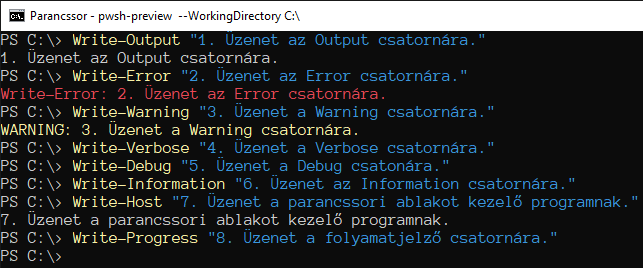
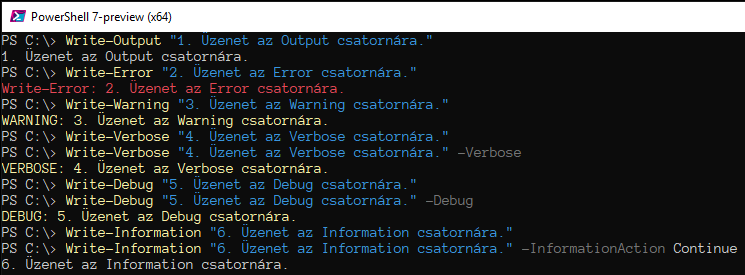
Files

Changed region(s): [[0.0, 0.0, 1.0, 0.9851]]

diff --git a/PowerShell/hu-HU/About_Content.html b/PowerShell/hu-HU/About_Content.html
@@ -19,6 +19,8 @@
   Ugyanezt a feladatot a <kbd>Set-Content</kbd>, illetve <kbd>Add-Content</kbd>
   parancsmagok, sőt a kimenet átirányítására szolgáló <kbd>&gt;</kbd>,
   illetve <kbd>&gt;&gt;</kbd> operátorok is végrehajtják.
+  A fájlok tartalmát felülíró parancsok létre is hozzák az adatállományt,
+  amennyiben az nem létezik.
   <p>
   <table class="wide">
     <tr>
@@ -45,9 +47,14 @@
   és egy állományba is elmenteni az átvett adatokat, így az eredményről a
   képernyőn is láthatunk visszajelzést. A <kbd>Set-Content</kbd> és
   <kbd>Add-Content</kbd> parancsmagok alapértelmezetten visszajelzés nélkül
-  rendelnek tartalmat egy adatállományhoz, de a képernyőn is visszaolvashatóvá
-  teszik azt a <kbd>-PassThru</kbd> kapcsoló hatására.
-  <p>
+  rendelnek tartalmat egy adatállományhoz, ám a képernyőn is visszaolvashatóvá
+  tehetik a fájlba irányított objektumokat a <kbd>-PassThru</kbd> kapcsoló
+  hatására. <strong>De vigyázat!</strong> A képernyőn megjelenő és a fájlba írt
+  sorok különbözhetnek egymástól!
+  <figure>
+    <img src="img/Send objects into file.png"/>
+    <figcaption>Send objects into file</figcaption>
+  </figure>
   A paraméterezési lehetőségeken kívül a fő különbség a fenti eszközök között
   elsősorban az, hogy a <kbd>Set-Content</kbd> és <kbd>Add-Content</kbd>
   parancsmagok a kiírandó objektumokat a <kbd>.ToString()</kbd> metódus
@@ -56,10 +63,12 @@
   megfelelően készíti el a fájl tartalmát. Ez utóbbi eredményt a
   <kbd>Set-Content</kbd> és <kbd>Add-Content</kbd> parancsmagokkal is
   elérhetjük, ha a kiírás előtt az adatokat átküldjük az <kbd>Out-String</kbd>
-  parancsmagon.
-  <p>
-  A fájlok tartalmát felülíró parancsok létre is hozzák az adatállományt,
-  amennyiben az nem létezik.
+  parancsmagon, amely az alapértelmezett formázás szerinti szöveges adatokká
+  alakítja azokat.
+  <figure>
+    <img src="img/Send formatted objects into file.png"/>
+    <figcaption>Send formatted objects into file</figcaption>
+  </figure>
   <h2>Adatállományok tartalmának kódolása</h2>
   A szöveges állományok tartalmának megfelelő kezeléséhez ismerni kell az
   alkalmazott szövegkódolást is, amit az <kbd>-Encoding</kbd> paraméter
@@ -116,7 +125,10 @@
   Az <kbd>-AsByteStream</kbd> kapcsoló hatására parancsmag az <kbd>-Encoding</kbd>
   paramétert figyelmen kívül hagyja, és az állomány tartalmát bájtsorozatként
   olvassa be.
-  <p>
+  <figure>
+    <img src="img/Set and get file content.png"/>
+    <figcaption>Set and get file content</figcaption>
+  </figure>
   Érdekes módon egy adatállomány tartalmát mint egy memóriaváltozót is elérhetjük
   ha az állomány abszolút elérési útját mint betű szerinti (<i>literal&thinsp;</i>)
   szöveges adatot, idézőjelek nélkül, kapcsos zárójelek között adjuk meg a

diff --git a/PowerShell/hu-HU/Create-Files.html b/PowerShell/hu-HU/Create-Files.html
@@ -15,8 +15,8 @@
   <h2>Fájlrendszerbeli elemek létrehozása</h2>
   Fájlrendszerbeli tárhelyek és adatelemek létrehozására a <kbd>New-Item</kbd>
   alapparancs a kézenfekvő megoldás. Az új tárhelyek vagy adatelemek a
-  <kbd>-Path</kbd> paraméter által meghatározott elérési úton,
-  a <kbd>-Name</kbd> paraméterben megadott néven jön létre.
+  <kbd>-Path</kbd> paraméter által meghatározott elérési utakon,
+  a <kbd>-Name</kbd> paraméterben megadott néven jönnek létre.
   A parancs <kbd>-ItemType</kbd> paraméterének a fájlrendszerben elfogadott
   argumentumai a következők:
   <ul>
@@ -30,15 +30,20 @@
     <li><kbd>SymbolicLink</kbd> &mdash; hivatkozást hoz létre tetszőleges
         (akár hálózati) elérési úton azonosított fájlra vagy mappára.
   </ul>
-  Új azonosító vagy hivatkozás (<i></i>) létrehozásakor a már létező célt a
+  Új azonosító vagy hivatkozás létrehozásakor a már létező célt a
   <kbd>-Value</kbd> paraméter értéke pontosítja. Ez a paraméter máskülönben
   az új adatelem kezdeti tartalmának beállítására szolgál.
   <p>
   A <kbd>New-Item</kbd> parancs alapértelmezetten hibajelzést generál,
   amennyiben az adott elérési úton a megadott nevű elem már létezik;
   a létező elem helyett egy új létrehozását (vagyis a létező elem felülírását)
-  a <kbd>-Force</kbd> kapcsolóval kényszeríthetjük ki.
-  <p>
+  a <kbd>-Force</kbd> kapcsolóval kényszeríthetjük ki. <i>HardLink</i> vagy
+  <i>SymbolicLink</i> létrehozásához rendszergazdai jogosultság szükséges
+  &mdash; ennek hiányában az utasítás hibaüzenetet produkál.
+  <figure>
+    <img src="img/Creation of new items in File System.png"/>
+    <figcaption>Creation of new items in File System</figcaption>
+  </figure>
   Új adatállomány objektumok fájlba irányításával, vagyis
   <a href="../index.html?locale=hu-HU&article=About_Content" target="_top"
   >tartalomkezelő parancsokkal</a> is létrehozható.

diff --git a/PowerShell/hu-HU/Streams.html b/PowerShell/hu-HU/Streams.html
@@ -32,22 +32,18 @@
     <img src="img/Get-Help Write-star.png"/>
     <figcaption>Get-Help Write-*</figcaption>
   </figure>
-  Alapértelmezetten nem minden adatfolyamra küldött üzenet jut el a parancssori
-  ablakot felügyelő <kbd>Host</kbd> gazdaprogramhoz, ennélfogva nem minden
-  adatfolyam tartalma olvasható közvetlenül a képernyőn.
+  Alapértelmezetten nem minden adatfolyamra küldött üzenet megy tovább a
+  csővezetéken, és jut el a parancssori ablakot felügyelő <kbd>Host</kbd>
+  gazdaprogramhoz: a részletes jelentés és a futásellenőrzési információ
+  megjelenítését egy-egy általános kapcsolóval lehet engedélyezni;
+  az információs csatorna viselkedését pedig külön be kell állítani ahhoz,
+  hogy az üzenet a csővezetékbe kerüljön.
   <figure>
     <img src="img/Write into Streams.png"/>
     <figcaption>Write Message to Streams</figcaption>
   </figure>
-  Ahhoz, hogy a különböző adatfolyamok tartalmát láthatóvá tegyük, át lehet
-  irányítani azokat egy hozzáférhető csatornába. Ekkor az is láthatóvá válik,
-  hogy a gazdaprogram &ndash; a felhasználó beállításainak megfelelően &ndash;
-  milyen színekkel teszi feltűnőbbé a különféle adatfolyamok megjelenített
-  tartalmát.
-  <figure>
-    <img src="img/Write Streams from Function.png"/>
-    <figcaption>Write Streams from Function</figcaption>
-  </figure>
+  A különféle csatornákról érkező üzeneteket a <kbd>Host</kbd> a beállításoknak
+  megfelelően, figyelemfelkeltő módon színezi és címkézi.
   <h2>Általános vagy közös paraméterek (<i>Common Parameters&thinsp;</i>)</h2>
   Az általános vagy közös paramétereket minden parancsmag ismeri és elfogadja,
   szerepük pedig a parancsértelmező működésének általános szabályozásában van

diff --git a/PowerShell/hu-HU/FileSystem_Provider.html b/PowerShell/hu-HU/FileSystem_Provider.html
@@ -48,51 +48,6 @@
   Az fájlok <kbd>.isReadOnly</kbd> attribútumát a <kbd>Set-ItemPropery</kbd>
   paranccsal, tartalmukat pedig a <kbd>*-Content</kbd> parancsmagokkal
   módosíthatjuk.
-  <h2>Adattár-specifikus dinamikus paraméterek</h2>
-  <a href="../index.html?locale=hu-HU&article=About_ChildItems" target="_top"
-  >Egy előző fejezetben</a> már láttuk, hogy a <kbd>Get-ChildItem</kbd>
-  parancsmagnak vannak kifejezetten fájlokra és mappákra vonatkozó paraméterei.
-  Ugyanez számos más alapparancsra is igaz. A <kbd>New-Item</kbd> parancs
-  <kbd>-ItemType</kbd> paraméterének a lehetséges értéke például adattáranként
-  változik; a fájlrendszer esetében a megadható argumentumok a következők:
-  <ul>
-    <li><kbd>Directory</kbd>
-    <li><kbd>File</kbd>
-    <li><kbd>HardLink</kbd>
-    <li><kbd>Junction</kbd>
-    <li><kbd>SymbolicLink</kbd>
-  </ul>
-
-  <h2>Különleges parancsok fájlok és mappák kezelésére</h2>
-
-
-  https://docs.microsoft.com/hu-hu/archive/blogs/askcore/alternate-data-streams-in-ntfs
-  get-item * -Stream * | Select PSChildName
-  get-item * -Stream Zone.Identifier
-  get-item pille2* -Stream Zone.Identifier | Get-Content ==> ZoneId
-  Value Setting
-  ——————————
-  0 My Computer
-  1 Local Intranet Zone
-  2 Trusted sites Zone
-  3 Internet Zone
-  4 Restricted Sites Zone
-  public enum SecurityZone
-  {
-    NoZone = -1,
-    MyComputer = 0,
-    Intranet = 1,
-    Trusted = 2,
-    Internet = 3,
-    Untrusted = 4,
-  }
-  Unblock-File
-
-  *-File
-  *-Acl
-  *-AuthenticodeSignature
-
-
   <nav>
     <a href="../index.html?locale=hu-HU&article=Find-Files" target="_top"
      >Fájlok és mappák keresése</a>

diff --git a/PowerShell/hu-HU/About_ADS.html b/PowerShell/hu-HU/About_ADS.html
@@ -12,6 +12,30 @@
 <body>
 <article>
   <h1>Alternatív adatfolyamok</h1>
+
+  https://docs.microsoft.com/hu-hu/archive/blogs/askcore/alternate-data-streams-in-ntfs
+  get-item * -Stream * | Select PSChildName
+  get-item * -Stream Zone.Identifier
+  get-item pille2* -Stream Zone.Identifier | Get-Content ==> ZoneId
+  Value Setting
+  ——————————
+  0 My Computer
+  1 Local Intranet Zone
+  2 Trusted sites Zone
+  3 Internet Zone
+  4 Restricted Sites Zone
+  public enum SecurityZone
+  {
+    NoZone = -1,
+    MyComputer = 0,
+    Intranet = 1,
+    Trusted = 2,
+    Internet = 3,
+    Untrusted = 4,
+  }
+  Unblock-File
+
+
   <nav>
     <a href="../index.html?locale=hu-HU&article=About_ACL" target="_top"
       >Hozzáférés-szabályozás</a>

diff --git a/PowerShell/hu-HU/Find-Files.html b/PowerShell/hu-HU/Find-Files.html
@@ -19,8 +19,11 @@
   parancsmagnak vannak csak a fájlrendszer adattárban használható,
   úgynevezett dinamikus paraméterei is. A <kbd>-FollowSymlink</kbd> kapcsoló
   hatására például azokban a mappákban is elvégezi a felderítést,
-  amelyekre csak egy hivatkozás mutat.
-  <p>
+  amelyekre csak egy hivatkozás (<i>Junction</i> vagy <i>Symbolic Link</i>) mutat.
+  <figure>
+    <img src="img/Follow folder links in finding files.png"/>
+    <figcaption>Follow folder links in finding files</figcaption>
+  </figure>
   A fájrendszerben a keresett elemeket nemcsak nevük (illetve elérési útjuk),
   hanem jellemzőik szerint is szűrhetjük az <kbd>-Attributes</kbd> paraméter
   segítségével. A lehetséges attribútumokat a súgó által megadott

diff --git a/PowerShell/hu-HU/Format.html b/PowerShell/hu-HU/Format.html
@@ -32,6 +32,8 @@
         nevét írja &mdash; ez a viselkedés a <kbd>-HideTableHeaders</kbd>
         kapcsolóval kiiktatható; a <kbd>-RepeatHeader</kbd> kapcsoló viszont
         ellenkezőleg: minden képernyőnyi adat után megismétli a fejlécet.
+        A megjelenítendő tulajdonságokat a <kbd>-Property</kbd> paraméternek
+        sorolhatjuk fel.
     <li><strong>Lista</strong> (<i>List&thinsp;</i>): az objektumoknak
         <strong>legalább 5</strong> tulajdonságát sorolja fel egymás alatt a
         képernyőn; két objektum tulajdonságlistája között egy-egy üres sort hagy.

diff --git a/PowerShell/hu-HU/Get-Member.html b/PowerShell/hu-HU/Get-Member.html
@@ -96,8 +96,8 @@
   hanem az objektum típusának szögletes zárójelbe tett nevét követő dupla
   kettőspont után írt tulajdonságnévvel hivatkozunk.
   <figure>
-    <img src="img/System.DateTime Properties.png"/>
-    <figcaption>System.DateTime Properties</figcaption>
+    <img src="img/DateTime Properties.png"/>
+    <figcaption>DateTime Properties</figcaption>
   </figure>
   A <kbd>Get-Member</kbd> a tagok felsorolása előtt mintegy címként jeleníti meg
   a vizsgált objektum típusának a nevét. Ez a típusnév, valamint az összes

diff --git a/PowerShell/hu-HU/About_ChildItems.html b/PowerShell/hu-HU/About_ChildItems.html
@@ -50,7 +50,7 @@
   </figure>
   A félreértések elkerülése végett a beágyazott tárhelyekre is kiterjesztett
   felderítést mindig a <kbd>-Recurse</kbd> kapcsolóval érdemes beállítani.
-  A rekurzió mélységét a <kbd>-Depth</kbd> paraméterrel szabályozhatjuk;
+  A rekurzió mélységét a <kbd>-Depth</kbd> paraméterrel szabályozhatjuk &mdash;
   az alapértelmezetten korlátlan mélységű felderítés nagyon hosszú ideig tarthat.
   <figure>
     <img src="img/Locate pwsh executable.png"/>
